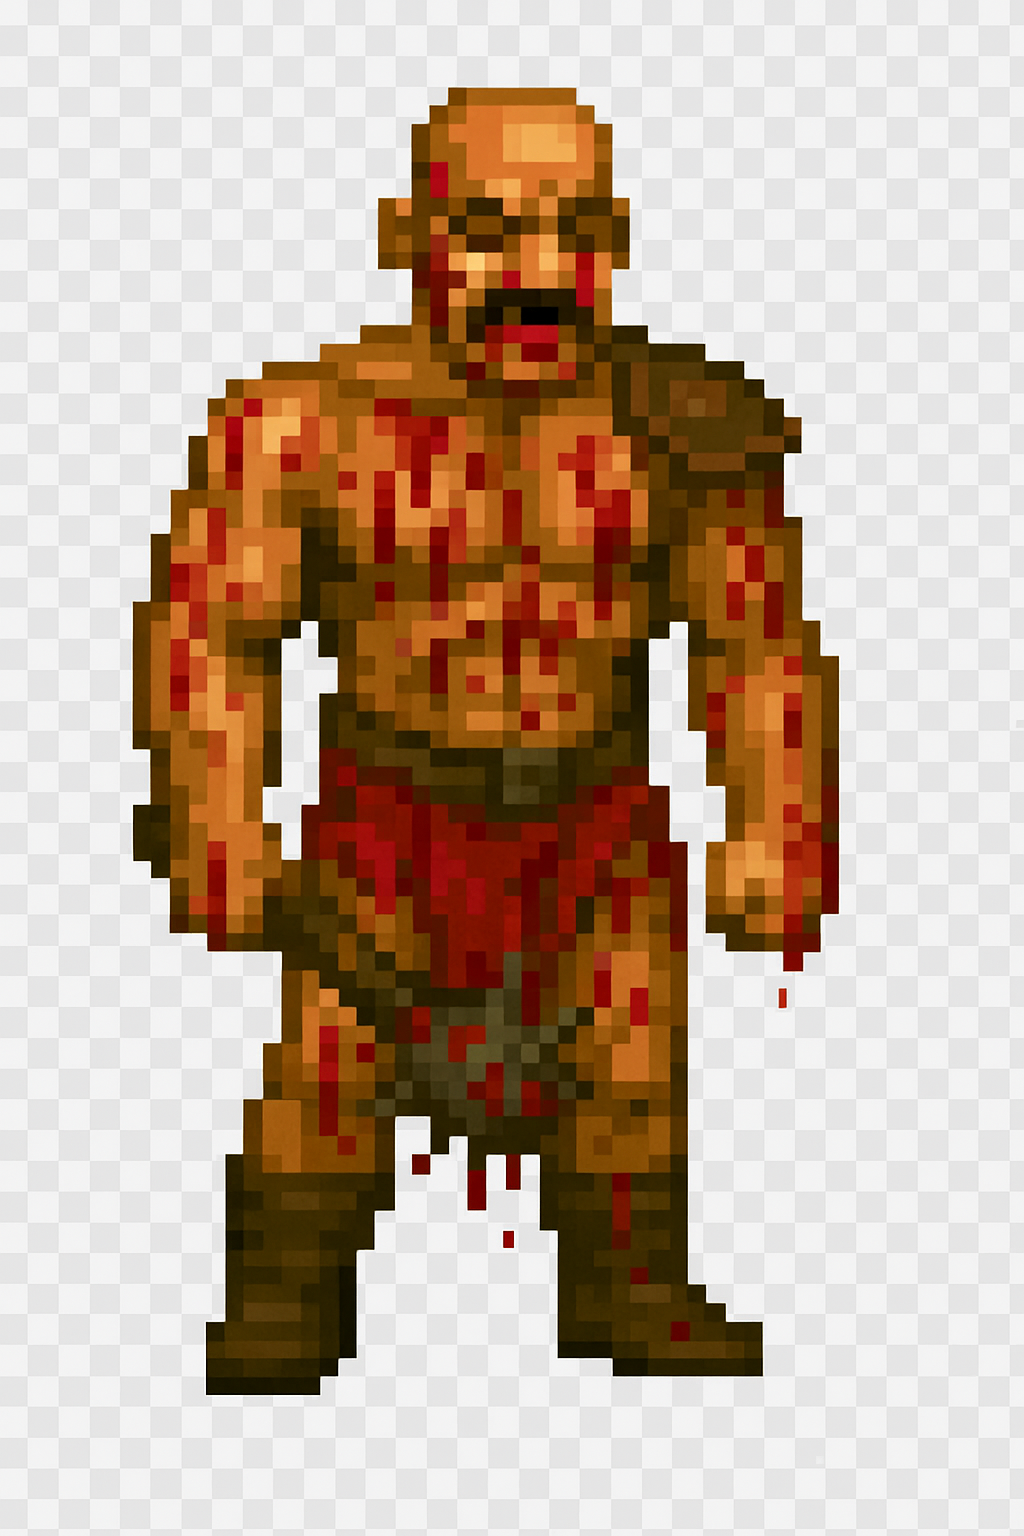
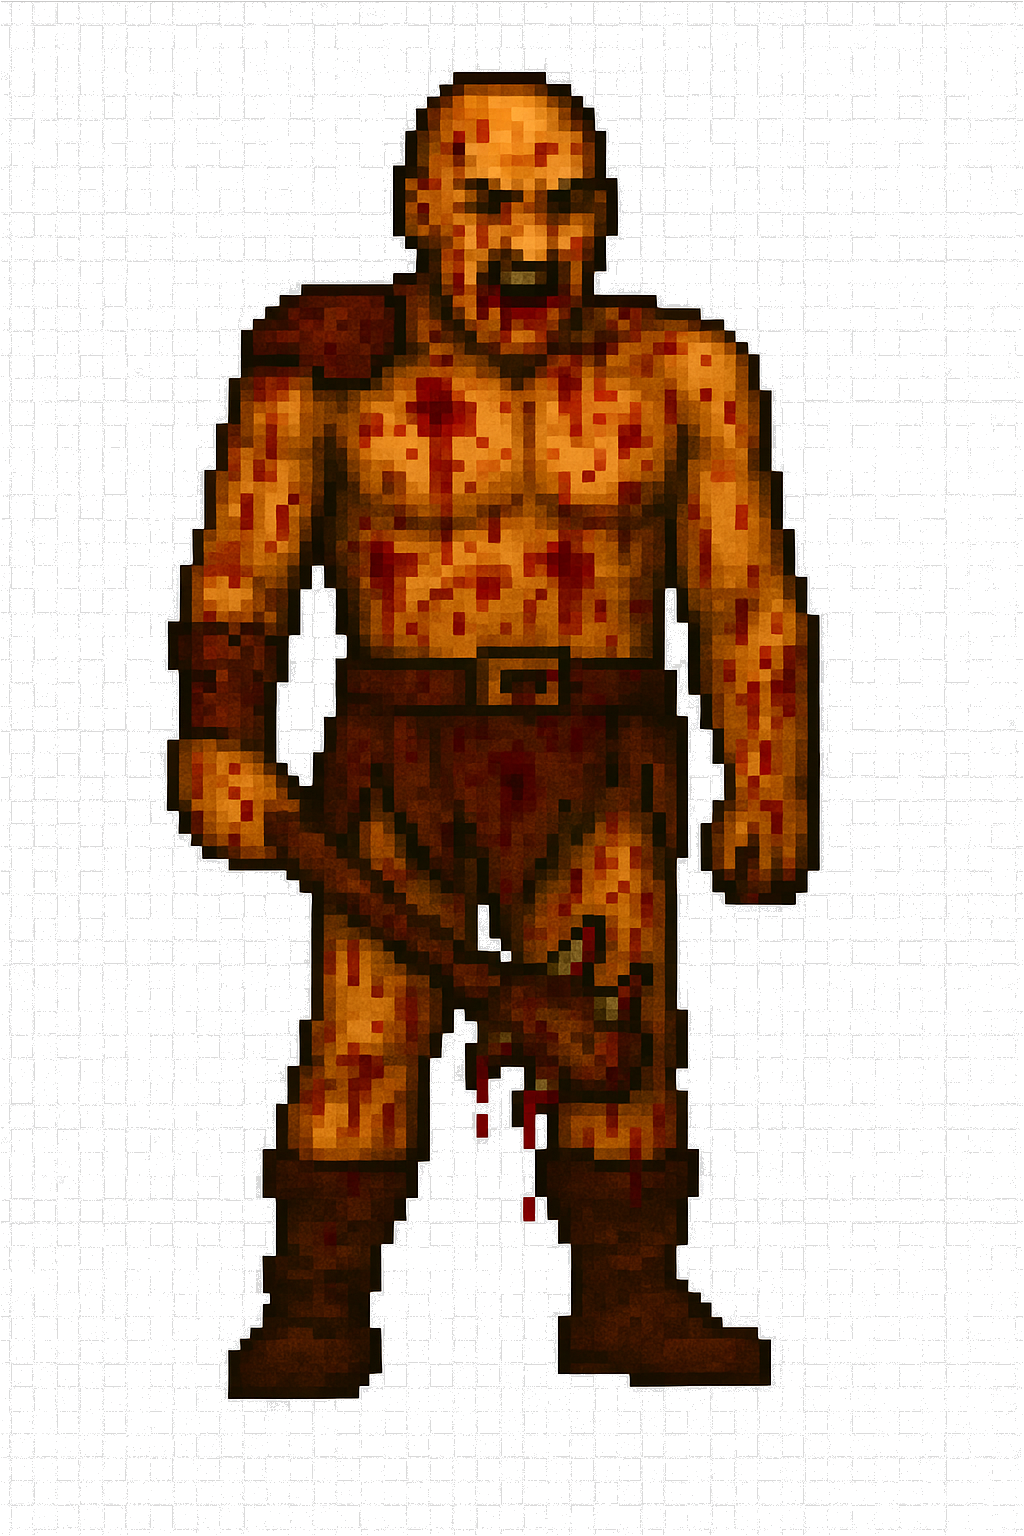
niro

diff --git a/game.js b/game.js
@@ -389,29 +389,24 @@ function draw3DView() {
             let relAngle = angleToNPC - playerAngle;
             while (relAngle < -Math.PI) relAngle += Math.PI * 2;
             while (relAngle > Math.PI) relAngle -= Math.PI * 2;
-            if (Math.abs(relAngle) < (Math.PI / 180) * 10) { // ~10 degrees
+            if (Math.abs(relAngle) < FOV / 2 && n.dist > 0.2) {
                 const screenX = Math.tan(relAngle) / Math.tan(FOV / 2) * (canvas.width / 2) + (canvas.width / 2);
-                // Use a simple ray for occlusion
-                const rayDist = (() => {
-                    let d = 0, step = 0.01;
-                    let px = playerX, py = playerY;
-                    while (d < n.dist) {
-                        px += Math.cos(angleToNPC) * step;
-                        py += Math.sin(angleToNPC) * step;
-                        if (map[Math.floor(py)][Math.floor(px)] !== 0) break;
-                        d += step;
-                    }
-                    return d;
-                })();
-                if (rayDist + 0.2 < n.dist) return;
+                const ray = castRay(angleToNPC);
+                if (ray.distance + 0.2 < n.dist) return;
                 const spriteScale = 0.9;
                 const spriteHeight = Math.abs(canvas.height / n.dist * spriteScale);
                 const spriteWidth = spriteHeight * (npcImg.width / npcImg.height);
                 const floorLine = (canvas.height / 2) + (canvas.height / (2 * n.dist));
                 const spriteY = floorLine - spriteHeight;
-                if (npcImg.complete && npcImg.naturalWidth > 0) {
+                let imgToDraw = npcImg;
+                if (n.state === 'injured' && Date.now() < n.injuredUntil) {
+                    imgToDraw = npcInjuredImg;
+                } else if (n.state === 'injured' && Date.now() >= n.injuredUntil) {
+                    n.state = 'standing';
+                }
+                if (imgToDraw.complete && imgToDraw.naturalWidth > 0) {
                     ctx.drawImage(
-                        npcImg,
+                        imgToDraw,
                         screenX - spriteWidth / 2,
                         spriteY,
                         spriteWidth,
@@ -503,9 +498,15 @@ function drawMap() {
 
     // Draw NPCs as niro_standing.png if loaded, else red square
     npcs.forEach(npc => {
-        if (npcImg && npcImg.complete && npcImg.naturalWidth > 0) {
+        let imgToDraw = npcImg;
+        if (npc.state === 'injured' && Date.now() < npc.injuredUntil) {
+            imgToDraw = npcInjuredImg;
+        } else if (npc.state === 'injured' && Date.now() >= npc.injuredUntil) {
+            npc.state = 'standing';
+        }
+        if (imgToDraw && imgToDraw.complete && imgToDraw.naturalWidth > 0) {
             ctx.drawImage(
-                npcImg,
+                imgToDraw,
                 npc.x * cellSize + cellSize * 0.1,
                 npc.y * cellSize + cellSize * 0.1,
                 cellSize * 0.8,
@@ -707,6 +708,8 @@ window.addEventListener('keydown', (e) => {
         });
         if (closestNPC) {
             closestNPC.health -= 25;
+            closestNPC.state = 'injured';
+            closestNPC.injuredUntil = Date.now() + 1000;
             console.log('NPC hit:', {
                 x: closestNPC.x,
                 y: closestNPC.y,
@@ -1204,6 +1207,9 @@ npcImg.src = 'niro_standing.png';
 const npcs = [];
 const maxNPCs = 15;
 
+const npcInjuredImg = new Image();
+npcInjuredImg.src = 'niro_injured.png';
+
 function getEmptyCellsForNPC() {
     const empty = [];
     for (let y = 0; y < map.length; y++) {
@@ -1226,11 +1232,11 @@ function spawnNPC() {
     if (emptyCells.length === 0) return;
     const idx = Math.floor(Math.random() * emptyCells.length);
     const pos = emptyCells[idx];
-    npcs.push({ x: pos.x, y: pos.y, health: 100, width: 1, height: 1 });
+    npcs.push({ x: pos.x, y: pos.y, health: 100, width: 1, height: 1, state: 'standing', injuredUntil: 0 });
 }
 
 setInterval(() => {
     spawnNPC();
 }, 1000);
 
-npcs.push({ x: Math.floor(playerX), y: Math.floor(playerY) + 1, health: 100, width: 1, height: 1 });
+npcs.push({ x: Math.floor(playerX), y: Math.floor(playerY) + 1, health: 100, width: 1, height: 1, state: 'standing', injuredUntil: 0 });
